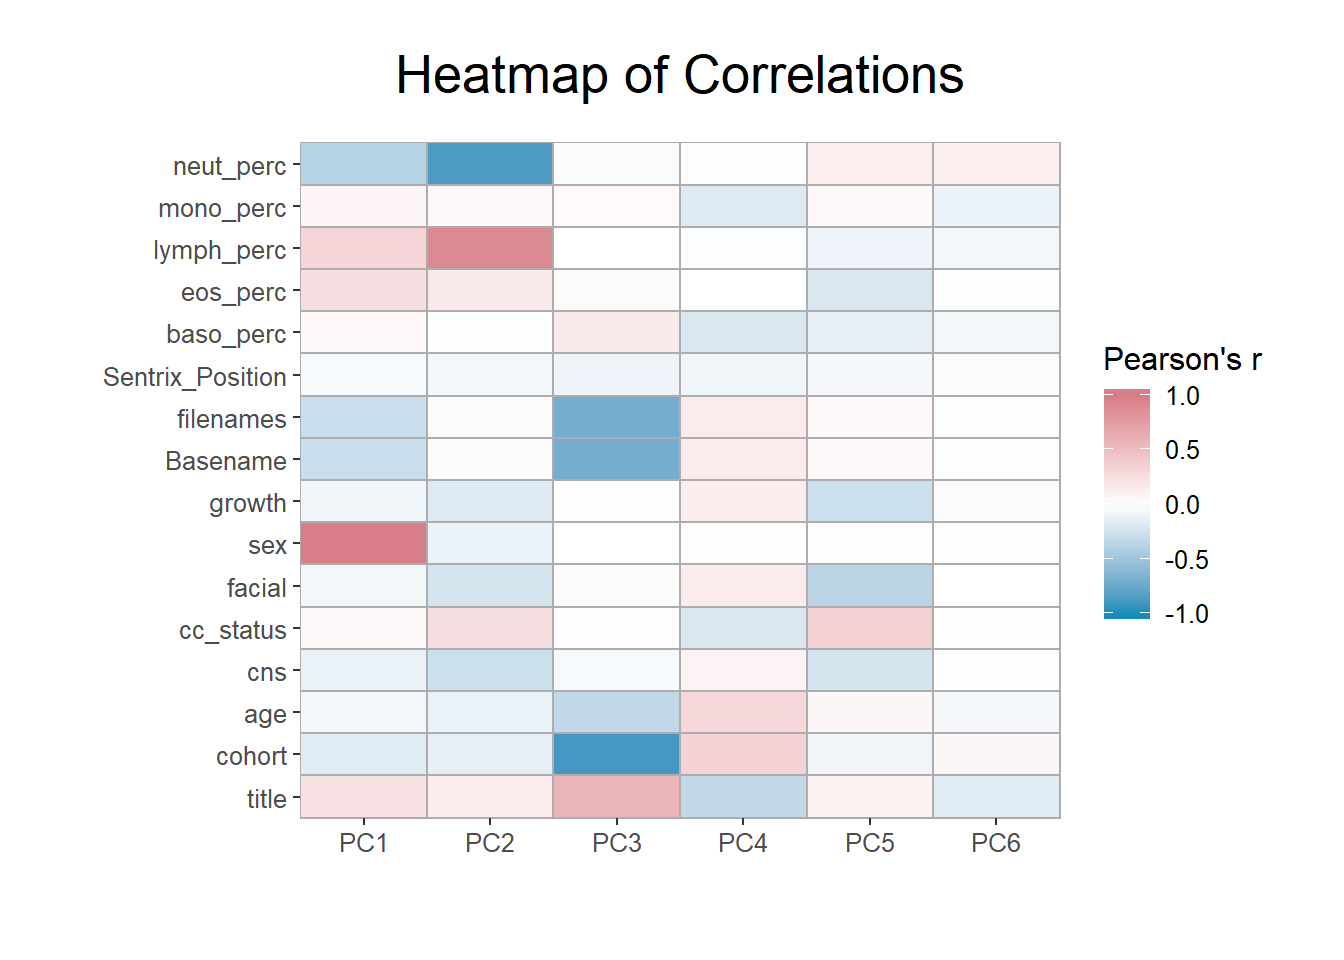
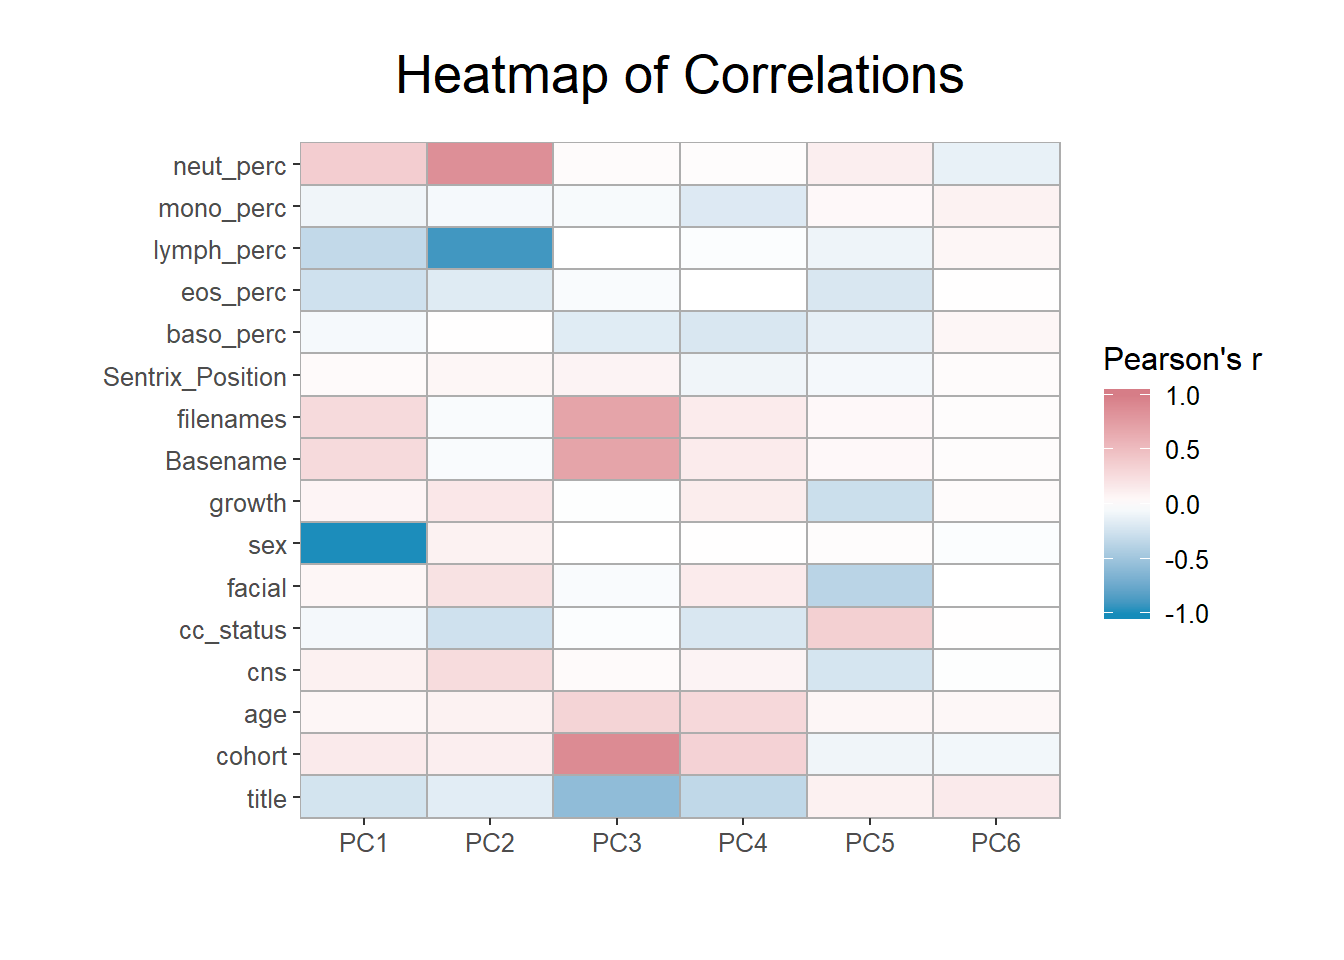
New Deployment
- The entire webpage is now built with R Bookdown instead of R Markdown

Changed region(s): [[0.2188, 0.4062, 0.5312, 0.875], [0.2188, 0.125, 0.5312, 0.375], [0.6875, 0.7812, 0.8125, 0.875]]

diff --git a/docs/about.html b/docs/about.html
@@ -391,108 +391,127 @@ div.tocify {
 ## [8] methods   base     
 ## 
 ## other attached packages:
-##  [1] BBMRIomics_3.2.1                                  
-##  [2] bacon_1.12.0                                      
-##  [3] ellipse_0.4.1                                     
-##  [4] ggplot2_3.2.0                                     
-##  [5] impute_1.58.0                                     
-##  [6] IlluminaHumanMethylation450kanno.ilmn12.hg19_0.6.0
-##  [7] IlluminaHumanMethylation450kmanifest_0.4.0        
-##  [8] fastcluster_1.1.25                                
-##  [9] pheatmap_1.0.12                                   
-## [10] irlba_2.3.3                                       
-## [11] Matrix_1.2-17                                     
-## [12] limma_3.40.2                                      
-## [13] cate_1.0.4                                        
-## [14] BatchJobs_1.8                                     
-## [15] BBmisc_1.11                                       
-## [16] MethylAid_1.18.0                                  
-## [17] knitr_1.23                                        
-## [18] DNAmArray_0.1.1                                   
-## [19] htm2txt_2.1.1                                     
-## [20] minfi_1.30.0                                      
-## [21] bumphunter_1.26.0                                 
-## [22] locfit_1.5-9.1                                    
-## [23] iterators_1.0.10                                  
-## [24] foreach_1.4.4                                     
-## [25] Biostrings_2.52.0                                 
-## [26] XVector_0.24.0                                    
-## [27] SummarizedExperiment_1.14.0                       
-## [28] DelayedArray_0.10.0                               
-## [29] BiocParallel_1.17.18                              
-## [30] matrixStats_0.54.0                                
-## [31] FDb.InfiniumMethylation.hg19_2.2.0                
-## [32] org.Hs.eg.db_3.8.2                                
-## [33] TxDb.Hsapiens.UCSC.hg19.knownGene_3.2.2           
-## [34] GenomicFeatures_1.36.4                            
-## [35] AnnotationDbi_1.46.0                              
-## [36] Biobase_2.44.0                                    
-## [37] GenomicRanges_1.36.0                              
-## [38] GenomeInfoDb_1.20.0                               
-## [39] IRanges_2.18.1                                    
-## [40] S4Vectors_0.22.0                                  
-## [41] BiocGenerics_0.30.0                               
-## [42] BiocManager_1.30.4                                
+##  [1] wateRmelon_1.28.0                                 
+##  [2] illuminaio_0.26.0                                 
+##  [3] ROC_1.60.0                                        
+##  [4] lumi_2.36.0                                       
+##  [5] methylumi_2.30.0                                  
+##  [6] reshape2_1.4.3                                    
+##  [7] scales_1.0.0                                      
+##  [8] stringr_1.4.0                                     
+##  [9] missMDA_1.14                                      
+## [10] BBMRIomics_3.2.1                                  
+## [11] bacon_1.12.0                                      
+## [12] ellipse_0.4.1                                     
+## [13] ggplot2_3.2.0                                     
+## [14] impute_1.58.0                                     
+## [15] IlluminaHumanMethylation450kanno.ilmn12.hg19_0.6.0
+## [16] IlluminaHumanMethylation450kmanifest_0.4.0        
+## [17] fastcluster_1.1.25                                
+## [18] pheatmap_1.0.12                                   
+## [19] irlba_2.3.3                                       
+## [20] Matrix_1.2-17                                     
+## [21] limma_3.40.2                                      
+## [22] cate_1.0.4                                        
+## [23] BatchJobs_1.8                                     
+## [24] BBmisc_1.11                                       
+## [25] MethylAid_1.18.0                                  
+## [26] knitr_1.23                                        
+## [27] DNAmArray_0.1.1                                   
+## [28] htm2txt_2.1.1                                     
+## [29] minfi_1.30.0                                      
+## [30] bumphunter_1.26.0                                 
+## [31] locfit_1.5-9.1                                    
+## [32] iterators_1.0.10                                  
+## [33] foreach_1.4.4                                     
+## [34] Biostrings_2.52.0                                 
+## [35] XVector_0.24.0                                    
+## [36] SummarizedExperiment_1.14.0                       
+## [37] DelayedArray_0.10.0                               
+## [38] BiocParallel_1.17.18                              
+## [39] matrixStats_0.54.0                                
+## [40] FDb.InfiniumMethylation.hg19_2.2.0                
+## [41] org.Hs.eg.db_3.8.2                                
+## [42] TxDb.Hsapiens.UCSC.hg19.knownGene_3.2.2           
+## [43] GenomicFeatures_1.36.4                            
+## [44] AnnotationDbi_1.46.0                              
+## [45] Biobase_2.44.0                                    
+## [46] GenomicRanges_1.36.0                              
+## [47] GenomeInfoDb_1.20.0                               
+## [48] IRanges_2.18.1                                    
+## [49] S4Vectors_0.22.0                                  
+## [50] BiocGenerics_0.30.0                               
+## [51] BiocManager_1.30.4                                
 ## 
 ## loaded via a namespace (and not attached):
-##   [1] backports_1.1.4          plyr_1.8.4              
-##   [3] lazyeval_0.2.2           splines_3.6.1           
-##   [5] gridBase_0.4-7           sva_3.32.1              
-##   [7] digest_0.6.20            htmltools_0.3.6         
-##   [9] svd_0.4.3                magrittr_1.5            
-##  [11] checkmate_1.9.4          memoise_1.1.0           
-##  [13] BSgenome_1.52.0          readr_1.3.1             
-##  [15] annotate_1.62.0          askpass_1.1             
-##  [17] siggenes_1.58.0          prettyunits_1.0.2       
-##  [19] colorspace_1.4-1         blob_1.2.0              
-##  [21] xfun_0.8                 dplyr_0.8.3             
-##  [23] jsonlite_1.6             crayon_1.3.4            
-##  [25] RCurl_1.95-4.12          hexbin_1.27.3           
-##  [27] genefilter_1.66.0        GEOquery_2.52.0         
-##  [29] zeallot_0.1.0            VariantAnnotation_1.30.1
-##  [31] brew_1.0-6               survival_2.44-1.1       
-##  [33] sendmailR_1.2-1          glue_1.3.1              
-##  [35] ruv_0.9.7                registry_0.5-1          
-##  [37] gtable_0.3.0             zlibbioc_1.30.0         
-##  [39] Rhdf5lib_1.6.0           HDF5Array_1.12.1        
-##  [41] scales_1.0.0             DBI_1.0.0               
-##  [43] rngtools_1.4             bibtex_0.4.2            
-##  [45] Rcpp_1.0.1               xtable_1.8-4            
-##  [47] progress_1.2.2           bit_1.1-14              
-##  [49] mclust_5.4.5             preprocessCore_1.46.0   
-##  [51] httr_1.4.0               RColorBrewer_1.1-2      
-##  [53] pkgconfig_2.0.2          reshape_0.8.8           
-##  [55] XML_3.98-1.20            tidyselect_0.2.5        
-##  [57] rlang_0.4.0              reshape2_1.4.3          
-##  [59] later_0.8.0              munsell_0.5.0           
-##  [61] tools_3.6.1              esaBcv_1.2.1            
-##  [63] RSQLite_2.1.1            pls_2.7-1               
-##  [65] evaluate_0.14            stringr_1.4.0           
-##  [67] yaml_2.2.0               bit64_0.9-7             
-##  [69] beanplot_1.2             scrime_1.3.5            
-##  [71] purrr_0.3.2              nlme_3.1-140            
-##  [73] doRNG_1.7.1              mime_0.7                
-##  [75] leapp_1.2                nor1mix_1.3-0           
-##  [77] xml2_1.2.0               biomaRt_2.40.1          
-##  [79] compiler_3.6.1           RPostgreSQL_0.6-2       
-##  [81] tibble_2.1.3             stringi_1.4.3           
-##  [83] lattice_0.20-38          multtest_2.40.0         
-##  [85] vctrs_0.2.0              pillar_1.4.2            
-##  [87] corpcor_1.6.9            data.table_1.12.2       
-##  [89] bitops_1.0-6             httpuv_1.5.1            
-##  [91] rtracklayer_1.44.1       R6_2.4.0                
-##  [93] promises_1.0.1           gridExtra_2.3           
-##  [95] codetools_0.2-16         MASS_7.3-51.4           
-##  [97] assertthat_0.2.1         rhdf5_2.28.0            
-##  [99] openssl_1.4              pkgmaker_0.27           
-## [101] withr_2.1.2              GenomicAlignments_1.20.1
-## [103] Rsamtools_2.0.0          GenomeInfoDbData_1.2.1  
-## [105] mgcv_1.8-28              hms_0.5.0               
-## [107] quadprog_1.5-7           grid_3.6.1              
-## [109] tidyr_0.8.3              base64_2.0              
-## [111] rmarkdown_1.14           DelayedMatrixStats_1.6.0
-## [113] illuminaio_0.26.0        shiny_1.3.2             
-## [115] base64enc_0.1-3</code></pre>
+##   [1] lme4_1.1-21              tidyselect_0.2.5        
+##   [3] RSQLite_2.1.1            FactoMineR_1.42         
+##   [5] grid_3.6.1               munsell_0.5.0           
+##   [7] codetools_0.2-16         preprocessCore_1.46.0   
+##   [9] nleqslv_3.3.2            withr_2.1.2             
+##  [11] colorspace_1.4-1         leapp_1.2               
+##  [13] leaps_3.0                labeling_0.3            
+##  [15] GenomeInfoDbData_1.2.1   bit64_0.9-7             
+##  [17] rhdf5_2.28.0             vctrs_0.2.0             
+##  [19] generics_0.0.2           xfun_0.8                
+##  [21] R6_2.4.0                 doParallel_1.0.14       
+##  [23] bitops_1.0-6             reshape_0.8.8           
+##  [25] assertthat_0.2.1         promises_1.0.1          
+##  [27] nnet_7.3-12              gtable_0.3.0            
+##  [29] affy_1.62.0              sva_3.32.1              
+##  [31] svd_0.4.3                rlang_0.4.0             
+##  [33] zeallot_0.1.0            genefilter_1.66.0       
+##  [35] scatterplot3d_0.3-41     splines_3.6.1           
+##  [37] rtracklayer_1.44.1       lazyeval_0.2.2          
+##  [39] GEOquery_2.52.0          hexbin_1.27.3           
+##  [41] broom_0.5.2              brew_1.0-6              
+##  [43] checkmate_1.9.4          yaml_2.2.0              
+##  [45] backports_1.1.4          httpuv_1.5.1            
+##  [47] tools_3.6.1              RPostgreSQL_0.6-2       
+##  [49] gridBase_0.4-7           nor1mix_1.3-0           
+##  [51] affyio_1.54.0            RColorBrewer_1.1-2      
+##  [53] siggenes_1.58.0          Rcpp_1.0.1              
+##  [55] plyr_1.8.4               base64enc_0.1-3         
+##  [57] progress_1.2.2           zlibbioc_1.30.0         
+##  [59] purrr_0.3.2              RCurl_1.95-4.12         
+##  [61] prettyunits_1.0.2        rpart_4.1-15            
+##  [63] openssl_1.4              cluster_2.1.0           
+##  [65] magrittr_1.5             data.table_1.12.2       
+##  [67] mvtnorm_1.0-11           mitml_0.3-7             
+##  [69] hms_0.5.0                mime_0.7                
+##  [71] evaluate_0.14            xtable_1.8-4            
+##  [73] XML_3.98-1.20            mclust_5.4.5            
+##  [75] gridExtra_2.3            compiler_3.6.1          
+##  [77] biomaRt_2.40.1           tibble_2.1.3            
+##  [79] mice_3.6.0               KernSmooth_2.23-15      
+##  [81] crayon_1.3.4             minqa_1.2.4             
+##  [83] htmltools_0.3.6          mgcv_1.8-28             
+##  [85] corpcor_1.6.9            later_0.8.0             
+##  [87] tidyr_0.8.3              sendmailR_1.2-1         
+##  [89] DBI_1.0.0                MASS_7.3-51.4           
+##  [91] boot_1.3-22              readr_1.3.1             
+##  [93] quadprog_1.5-7           pan_1.6                 
+##  [95] pkgconfig_2.0.2          flashClust_1.01-2       
+##  [97] GenomicAlignments_1.20.1 registry_0.5-1          
+##  [99] xml2_1.2.0               annotate_1.62.0         
+## [101] rngtools_1.4             pkgmaker_0.27           
+## [103] multtest_2.40.0          beanplot_1.2            
+## [105] ruv_0.9.7                bibtex_0.4.2            
+## [107] doRNG_1.7.1              scrime_1.3.5            
+## [109] VariantAnnotation_1.30.1 digest_0.6.20           
+## [111] pls_2.7-1                rmarkdown_1.14          
+## [113] base64_2.0               DelayedMatrixStats_1.6.0
+## [115] jomo_2.6-8               shiny_1.3.2             
+## [117] Rsamtools_2.0.0          nloptr_1.2.1            
+## [119] nlme_3.1-140             jsonlite_1.6            
+## [121] Rhdf5lib_1.6.0           askpass_1.1             
+## [123] BSgenome_1.52.0          pillar_1.4.2            
+## [125] lattice_0.20-38          httr_1.4.0              
+## [127] survival_2.44-1.1        glue_1.3.1              
+## [129] esaBcv_1.2.1             bit_1.1-14              
+## [131] stringi_1.4.3            HDF5Array_1.12.1        
+## [133] blob_1.2.0               memoise_1.1.0           
+## [135] dplyr_0.8.3</code></pre>
 </div>
 <div id="references" class="section level1 unnumbered">
 <h1>References</h1>

diff --git a/docs/07_EWAS.html b/docs/07_EWAS.html
@@ -458,23 +458,23 @@ pc &lt;-<span class="st"> </span><span class="kw">prcomp_irlba</span>(<span clas
 
 cxy &lt;-<span class="st"> </span><span class="kw">round</span>(<span class="kw">cor</span>(pc<span class="op">$</span>x, <span class="kw">scale</span>(df)),<span class="dv">2</span>)  
 cxy[ , <span class="dv">1</span><span class="op">:</span><span class="dv">9</span>]</code></pre></div>
-<pre><code>##     title cohort   age   cns cc_status facial   sex growth Basename
-## PC1  0.23  -0.16 -0.07 -0.11      0.06  -0.07  0.99  -0.08    -0.28
-## PC2  0.15  -0.13 -0.10 -0.27      0.25  -0.22 -0.10  -0.18     0.03
-## PC3  0.57  -0.89 -0.33 -0.04      0.02   0.03  0.00   0.01    -0.70
-## PC4 -0.33   0.34  0.30  0.09     -0.20   0.15  0.01   0.14     0.15
-## PC5  0.11  -0.08  0.07 -0.22      0.36  -0.36  0.02  -0.27     0.05
-## PC6 -0.16   0.07 -0.06  0.01     -0.01   0.00  0.02  -0.03    -0.02</code></pre>
+<pre><code>##     title cohort  age   cns cc_status facial   sex growth Basename
+## PC1 -0.23   0.16 0.07  0.11     -0.06   0.07 -0.99   0.08     0.28
+## PC2 -0.15   0.13 0.10  0.27     -0.25   0.22  0.10   0.18    -0.03
+## PC3 -0.57   0.89 0.33  0.04     -0.02  -0.03  0.00  -0.01     0.70
+## PC4 -0.33   0.34 0.30  0.09     -0.20   0.15  0.01   0.14     0.15
+## PC5  0.11  -0.08 0.07 -0.22      0.36  -0.36  0.02  -0.27     0.05
+## PC6  0.16  -0.07 0.06 -0.01      0.01   0.00 -0.02   0.03     0.02</code></pre>
 <div class="sourceCode"><pre class="sourceCode r"><code class="sourceCode r"><span class="kw">library</span>(reshape2)
 melted_cxy &lt;-<span class="st"> </span><span class="kw">melt</span>(cxy)
 <span class="kw">head</span>(melted_cxy)</code></pre></div>
 <pre><code>##   Var1  Var2 value
-## 1  PC1 title  0.23
-## 2  PC2 title  0.15
-## 3  PC3 title  0.57
+## 1  PC1 title -0.23
+## 2  PC2 title -0.15
+## 3  PC3 title -0.57
 ## 4  PC4 title -0.33
 ## 5  PC5 title  0.11
-## 6  PC6 title -0.16</code></pre>
+## 6  PC6 title  0.16</code></pre>
 <p>After some aesthetic preparation of the <code>theme()</code>, the correlations can be visualized in a heatmap using <a href="https://ggplot2.tidyverse.org/"><strong>ggplot2</strong></a>’s <code>geom_tile()</code> function.</p>
 <div class="sourceCode"><pre class="sourceCode r"><code class="sourceCode r"><span class="kw">library</span>(ggplot2)
 <span class="kw">ggplot</span>(<span class="dt">data =</span> melted_cxy, <span class="kw">aes</span>(<span class="dt">x=</span>Var1, <span class="dt">y=</span>Var2, <span class="dt">fill=</span>value)) <span class="op">+</span><span class="st"> </span>th2 <span class="op">+</span><span class="st"> </span>th3 <span class="op">+</span><span class="st"> </span>th4 <span class="op">+</span><span class="st"> </span>th5 <span class="op">+</span>
@@ -514,7 +514,7 @@ factor.num &lt;-<span class="st"> </span><span class="kw">est.confounder.num</sp
                                  <span class="dt">method =</span> <span class="st">&quot;bcv&quot;</span>, <span class="dt">bcv.plot =</span> <span class="ot">FALSE</span>,
                                  <span class="dt">rmax =</span> <span class="dv">30</span>, <span class="dt">nRepeat =</span> <span class="dv">20</span>)
 factor.num<span class="op">$</span>r</code></pre></div>
-<pre><code>## [1] 11</code></pre>
+<pre><code>## [1] 8</code></pre>
 <p>In this instance, it is suggested we correct for 9 unmeasured confounders. To implement this, we use the <code>cate.fit()</code> function, as shown below. The output object stores the beta values, estimated test statistics, and relevant p-values, and top hits can be viewed after using the Bonferonni correction to adjust for multiple testing.</p>
 <div class="sourceCode"><pre class="sourceCode r"><code class="sourceCode r">results.cate &lt;-<span class="st"> </span><span class="kw">cate.fit</span>(design[,<span class="dv">2</span>,<span class="dt">drop=</span><span class="ot">FALSE</span>], design[,<span class="op">-</span><span class="dv">2</span>], beta.cate, 
                          <span class="dt">r =</span> <span class="dv">9</span>, <span class="dt">calibrate=</span><span class="ot">FALSE</span>, <span class="dt">adj.method=</span><span class="st">&quot;naive&quot;</span>)
